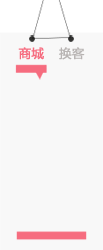
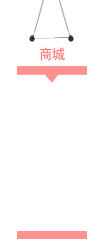
将首页上与换客相关的内容去掉
将 发布新需求 由post改为a标签实现

Squash from 28aee13 to 18f8b44 by slx

Changed region(s): [[0.1456, 0.112, 0.8447, 0.336], [0.1456, 0.924, 0.8447, 0.98]]

diff --git a/Application/Common/View/common_header_mall.html b/Application/Common/View/common_header_mall.html
@@ -110,14 +110,16 @@
 			</div>
 			<IF condition="$m eq 'chan'"><div class="banner_center_chan"></div><ELSE/><div class="banner_center"></div></IF>
 			<div class="banner_right">
-				<form method="post" id="new_demand" action="?c=newgoods">
+				<!-- <form method="post" id="new_demand" action="?c=newgoods">
 					<div style="width:126px;margin:0px auto;height:28px;border:0px solid black;">
 						<div class="in_where" id="in_mall">在集市</div>
 						<div class="in_where" id="in_change">在换客</div>
 					</div>
-					<input type="hidden" name="in_where" id="in_where_input" value="0"/>
-					<div class="out_put">发布新需求</div>
-				</form>
+					<input type="hidden" name="in_where" id="in_where_input" value="0"/> -->
+					<div class="out_put" style="line-height: 66px;">
+						<a href="?c=newgoods">发布新需求</a>
+					</div>
+				<!-- </form> -->
 			</div>
 		</div>
 	</div>

diff --git a/Application/Mall/Controller/NewgoodsController.class.php b/Application/Mall/Controller/NewgoodsController.class.php
@@ -56,12 +56,13 @@ class NewgoodsController extends PublicController
         if($sh[0]['shop_id']!='')
             $this->assign("new_shop",$sh);
 
-    	if($_POST['in_where']!=1)
-    	{
-    		$this->display('Index:newgoods');
-    	}
-    	else
-    		$this->error('换客天地尚未开放，敬请期待');
+    	$this->display('Index:newgoods');
+    	// if($_POST['in_where']!=1)
+    	// {
+    	// 	$this->display('Index:newgoods');
+    	// }
+    	// else
+    	// 	$this->error('换客天地尚未开放，敬请期待');
 	}
 
 	public function ver()	//生成验证码
